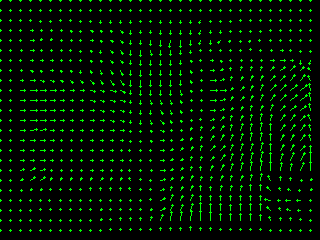
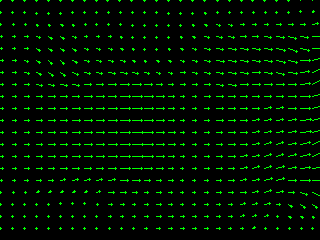
changes for better results of part 1b

diff --git a/ps04/experiment.py b/ps04/experiment.py
@@ -142,16 +142,16 @@ def part_1b():
     shift_r40 = cv2.imread(os.path.join(input_dir, 'TestSeq',
                                         'ShiftR40.png'), 0) / 255.
 
-    dict = [{"gblur_k":(13,13), "gblur_sigma": 3, "k_size":105, "k_type": "uniform", "sigma":0, "img_1": shift_0, "img_2": shift_r10},
-            {"gblur_k":(15,15), "gblur_sigma": 10, "k_size":91, "k_type": "uniform", "sigma":0, "img_1": shift_0, "img_2": shift_r20},
-            {"gblur_k":(19,19), "gblur_sigma": 14, "k_size":107, "k_type": "uniform", "sigma":0, "img_1": shift_0, "img_2": shift_r40}]
+    dict = [{"gblur_k":(45,45), "gblur_sigma": 11, "k_size":95, "k_type": "uniform", "sigma":0, "img_1": shift_0, "img_2": shift_r10, "scale":1, "stride":10},
+            {"gblur_k":(99, 99), "gblur_sigma": 16, "k_size":99, "k_type": "uniform", "sigma":0, "img_1": shift_0, "img_2": shift_r20, "scale":0.5, "stride":10},
+            {"gblur_k":(99,99), "gblur_sigma": 21, "k_size":107, "k_type": "uniform", "sigma":0, "img_1": shift_0, "img_2": shift_r40, "scale":0.25, "stride":12}]
 
     for i in range(len(dict)):
         d = dict[i]
         img_a = cv2.GaussianBlur(d["img_1"], d["gblur_k"], d["gblur_sigma"])
         img_b = cv2.GaussianBlur(d["img_2"], d["gblur_k"], d["gblur_sigma"])
         u, v = ps4.optic_flow_lk(img_a, img_b, d["k_size"], d["k_type"], d["sigma"])
-        u_v = quiver(u, v, scale=2, stride=10)
+        u_v = quiver(u, v, scale=d["scale"], stride=d["stride"])
         cv2.imwrite(os.path.join(output_dir, "ps4-1-b-"+str(i+1)+".png"), u_v)
 
 def part_2():
@@ -332,9 +332,9 @@ def part_6():
 
 
 if __name__ == '__main__':
-    # part_1a()
-    # part_1b()
-    # part_2()
+    part_1a()
+    part_1b()
+    part_2()
     part_3a_1()
     part_3a_2()
     # part_4a()

diff --git a/ps04/ps4.py b/ps04/ps4.py
@@ -107,19 +107,15 @@ def optic_flow_lk(img_a, img_b, k_size, k_type, sigma=1):
 
     if k_type == "uniform":
         k = np.ones((k_size, k_size), np.float32)/(k_size**2)
-        temp_a = np.copy(img_a)
-        temp_b = np.copy(img_b)
     elif k_type == "gaussian":
         k = cv2.getGaussianKernel((k_size**2), sigma, ktype = cv2.CV_32F).reshape((k_size, k_size))
-        temp_a = cv2.GaussianBlur(img_a, ksize=(k_size, k_size), sigmaX=sigma, sigmaY=sigma)
-        temp_b = cv2.GaussianBlur(img_b, ksize=(k_size, k_size), sigmaX=sigma, sigmaY=sigma)
     else:
         print("kernel type is not defined properly. Please define kernel type")
         return
 
-    It = cv2.subtract(temp_a, temp_b).astype(np.float64)
-    Ix = gradient_x(temp_a)
-    Iy = gradient_y(temp_a)
+    It = cv2.subtract(img_a, img_b).astype(np.float64)
+    Ix = gradient_x(img_a)
+    Iy = gradient_y(img_a)
 
     IxIx = cv2.filter2D(Ix*Ix, -1, k)
     IxIy = cv2.filter2D(Ix*Iy, -1, k)
